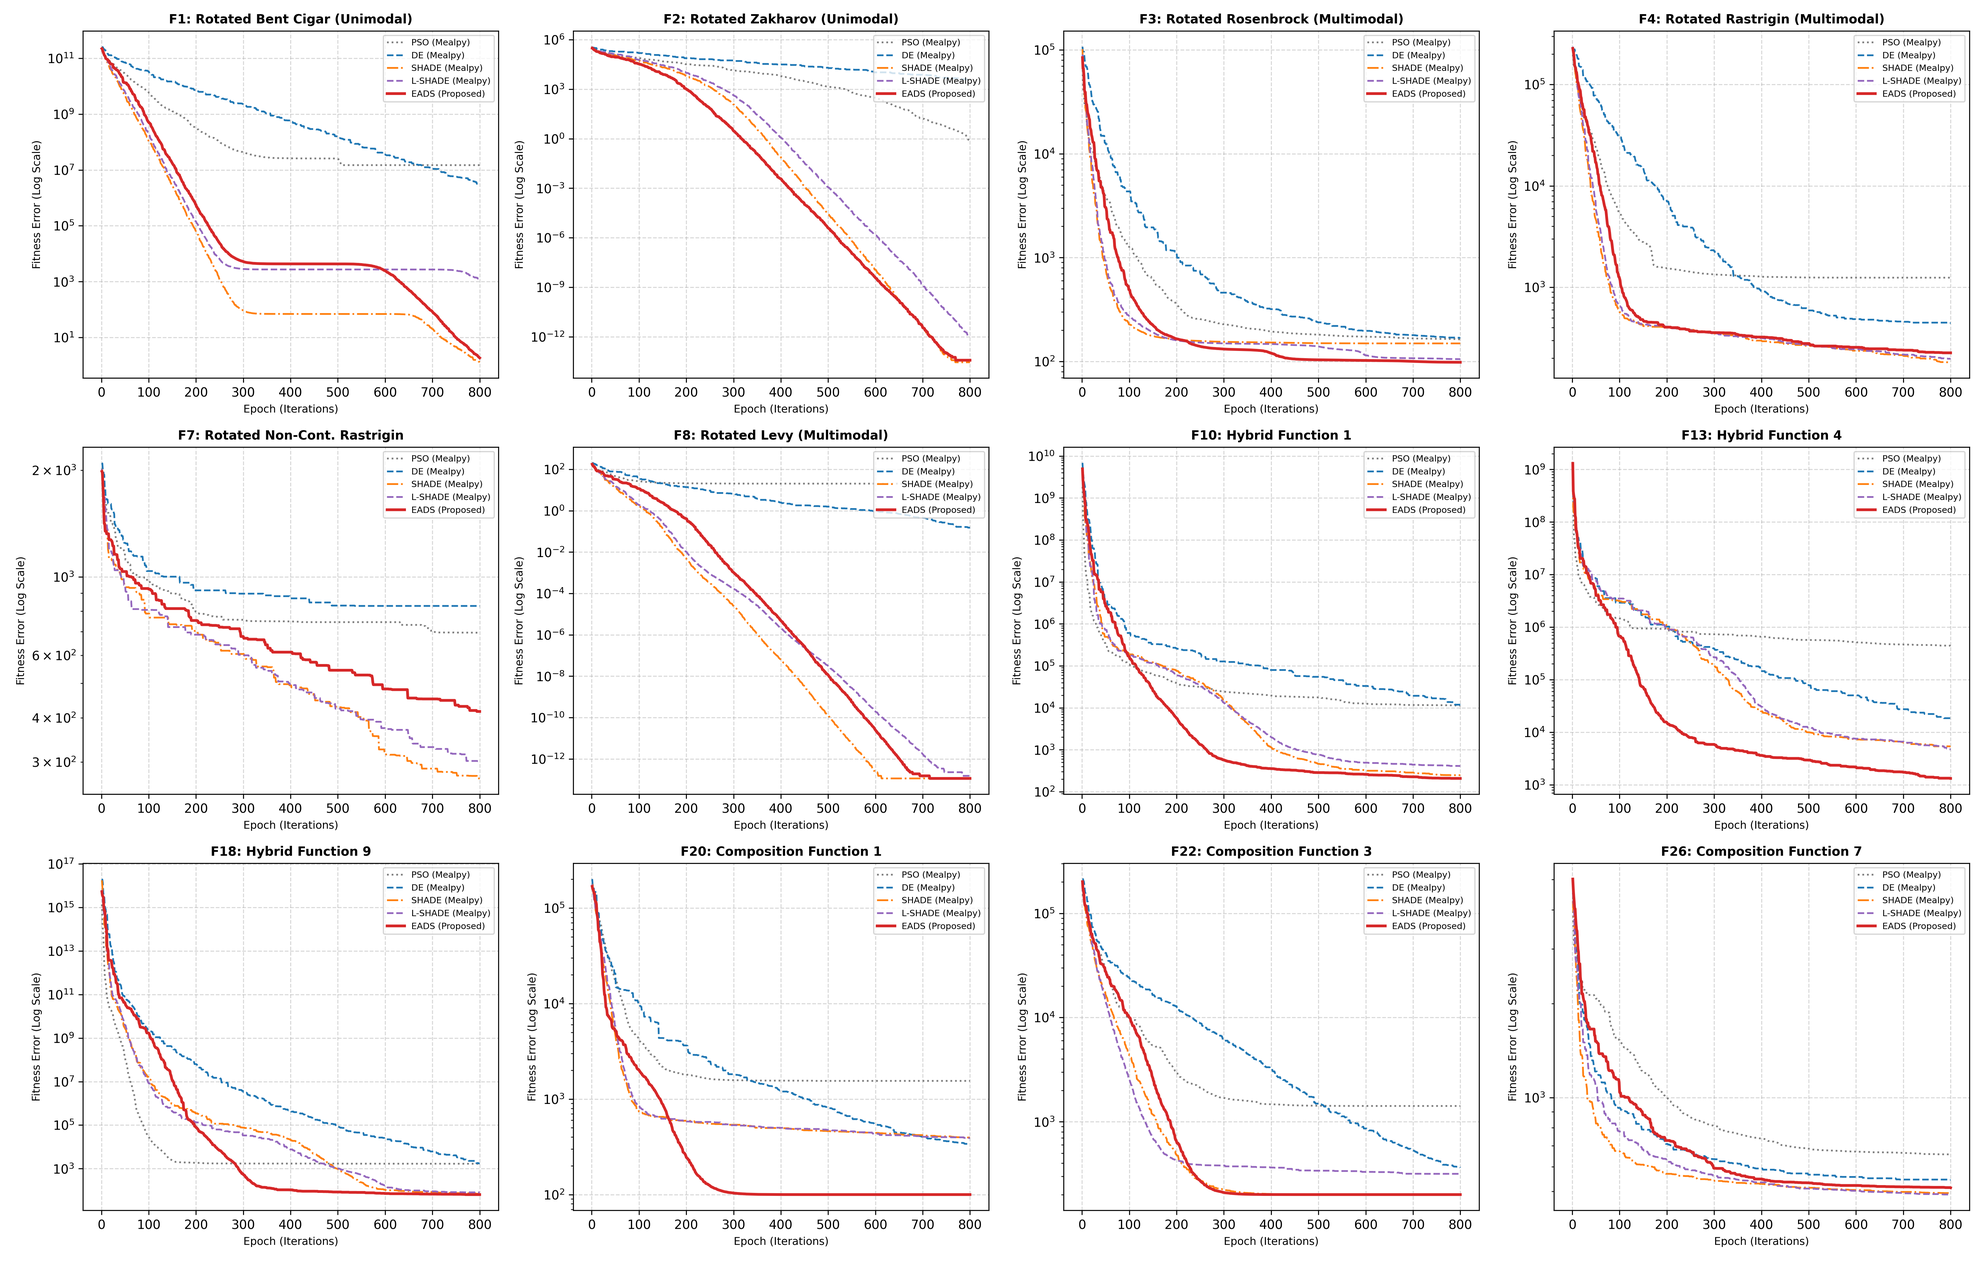
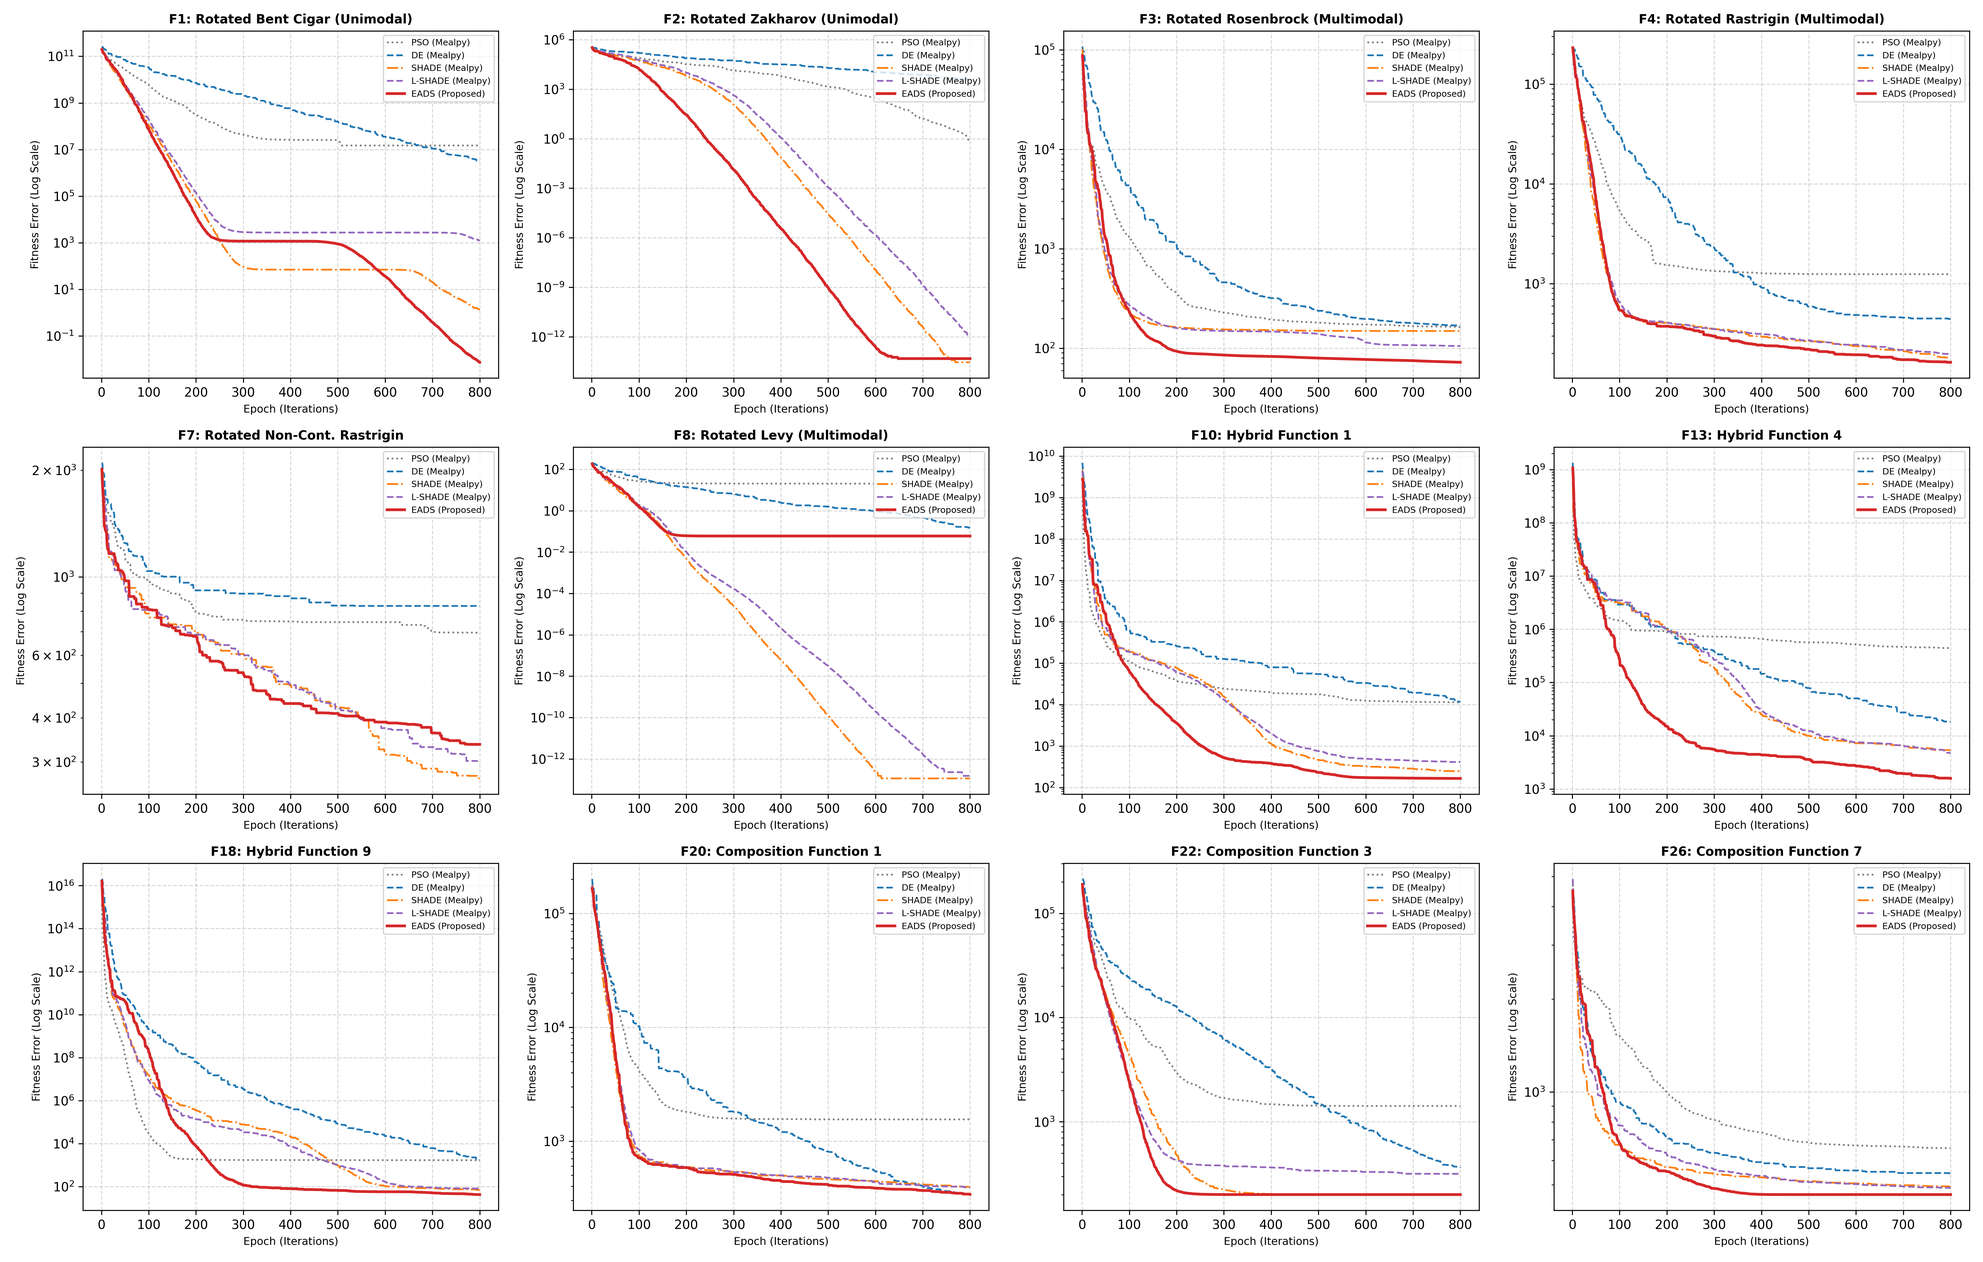
update eads

diff --git a/eads_v11.py b/eads_v11.py
@@ -1,0 +1,197 @@
+"""
+================================================================================
+EADS 核心算法模块 (eads.py)
+Eigen-Adaptive Dual-Strategy Differential Evolution (EADS)
+核心算子:
+  1. 对数秩加权收缩正则化协方差特征分解 (Log-Rank Weighted Shrinkage Covariance)
+  2. 异构双策略变异与混合双尺度交叉解耦 (窄域高维耦合开采 + 宽域主探索与 25% 稀疏维度修复) + 中点折返边界修复
+  3. 地形感知的自适应特征子空间正交旋转交叉 (Adaptive Eigen-Subspace Crossover)
+  4. 拉普拉斯平滑单次尝试成功率更新与 Lehmer 成功历史记忆池 (Per-Trial Success Rate & Lehmer Memory)
+================================================================================
+"""
+
+import numpy as np
+from mealpy import Optimizer
+
+
+class EADS(Optimizer):
+    """
+    Eigen-Adaptive Dual-Strategy Differential Evolution (EADS)
+    """
+    def __init__(self, epoch=600, pop_size=100, H=5, arc_rate=1.0, p_best_rate=0.11, **kwargs):
+        super().__init__(**kwargs)
+        self.epoch = self.validator.check_int("epoch", epoch, [1, 100000])
+        self.pop_size = self.validator.check_int("pop_size", pop_size, [10, 10000])
+        self.H = H
+        self.arc_rate = arc_rate
+        self.p_best_rate = p_best_rate
+        self.sort_flag = True
+
+    def initialize_variables(self):
+        self.dim = self.problem.n_dims
+        self.M_CR = np.full(self.H, 0.5)
+        self.M_F = np.full(self.H, 0.5)
+        self.k_mem = 0
+        self.archive = []
+        self.max_archive_size = int(self.pop_size * self.arc_rate)
+        self.p_strat1 = 0.5
+        self.p_eigen = 0.5
+        self.B_matrix = np.eye(self.dim)
+
+    def _bound_constraint(self, vec, parent_vec):
+        """
+        SHADE / L-SHADE 标准中点折返边界修复算子 (Midpoint Bounce-Back Repair):
+        防止变异或特征逆投影后的个体硬卡在边界墙上破坏协方差结构
+        """
+        lb = self.problem.lb
+        ub = self.problem.ub
+        vec = np.where(vec < lb, (parent_vec + lb) / 2.0, vec)
+        vec = np.where(vec > ub, (parent_vec + ub) / 2.0, vec)
+        return vec
+
+    def _update_eigen_basis(self):
+        n_elites = min(self.pop_size, max(self.dim + 1, int(0.35 * self.pop_size)))
+        elites = np.array([agent.solution for agent in self.pop[:n_elites]])
+
+        # 算子 1: 对数秩加权经验协方差矩阵
+        weights = np.log(n_elites + 0.5) - np.log(np.arange(1, n_elites + 1))
+        weights = weights / np.sum(weights)
+        mean_elite = np.sum(elites * weights[:, np.newaxis], axis=0)
+        diff = elites - mean_elite
+        cov = np.dot((diff * weights[:, np.newaxis]).T, diff)
+
+        # Ledoit-Wolf 保迹收缩正则化 (当种群完全坍缩至浮点极限时保留上一有效特征基)
+        trace_m = np.trace(cov) / self.dim if self.dim > 0 else 1.0
+        if trace_m > 1e-12:
+            cov_reg = 0.9999 * cov + 0.0001 * trace_m * np.eye(self.dim)
+            try:
+                _, eigen_vectors = np.linalg.eigh(cov_reg)
+                self.B_matrix = eigen_vectors
+            except np.linalg.LinAlgError:
+                self.B_matrix = np.eye(self.dim)
+
+    def evolve(self, epoch):
+        if epoch % 5 == 0:
+            self._update_eigen_basis()
+
+        S_CR, S_F, delta_f = [], [], []
+        strat1_wins, strat2_wins = 0, 0
+        strat1_trials, strat2_trials = 0, 0
+        eigen_wins, standard_wins = 0, 0
+        eigen_trials, standard_trials = 0, 0
+
+        # 策略 1 窄域退火精英池 (0.20 -> 0.04, 专注精细局部开采)
+        p_rate_narrow = 0.20 - (0.20 - 0.04) * (epoch / self.epoch)
+        p_count_narrow = max(2, int(self.pop_size * p_rate_narrow))
+
+        # 策略 2 宽域恒定精英池 (0.25, 保持多峰与周期地形的广域盆地覆盖)
+        p_count_wide = max(3, int(self.pop_size * 0.25))
+
+        for i in range(self.pop_size):
+            parent_sol = self.pop[i].solution
+            r = self.generator.integers(0, self.H)
+            cr = float(np.clip(self.generator.normal(self.M_CR[r], 0.1), 0.0, 1.0))
+            while True:
+                f_val = float(self.generator.standard_cauchy() * 0.1 + self.M_F[r])
+                if f_val > 0:
+                    f_val = min(1.0, f_val)
+                    break
+
+            cands_r1 = [idx for idx in range(self.pop_size) if idx != i]
+            r1 = self.generator.choice(cands_r1)
+            x_r1 = self.pop[r1].solution
+
+            # 从联合池 P U A 中采样历史差异个体 x_r2_arc
+            pool = list(range(self.pop_size))
+            if len(self.archive) > 0:
+                pool += [self.pop_size + idx for idx in range(len(self.archive))]
+            cands_r2 = [idx for idx in pool if idx != i and idx != r1]
+            r2_arc = self.generator.choice(cands_r2)
+            x_r2_arc = self.pop[r2_arc].solution if r2_arc < self.pop_size else self.archive[r2_arc - self.pop_size]
+
+            use_strat1 = (self.generator.uniform() < self.p_strat1)
+            is_sparse = False
+            if use_strat1:
+                strat1_trials += 1
+                # 策略 1 (高维耦合精细开采): 窄域退火精英池 + 历史记忆自适应高交叉率 cr_eff = cr
+                pbest_idx = self.generator.integers(0, p_count_narrow)
+                x_pbest = self.pop[pbest_idx].solution
+                v = parent_sol + f_val * (x_pbest - parent_sol) + f_val * (x_r1 - x_r2_arc)
+                cr_eff = cr
+            else:
+                # 策略 2 (宽域归档勘探 + 25% 概率稀疏维度解耦修复):
+                # 75% 保持全交叉率 cr 以保障 F1/F2/F4/F7 高维全空间推进速度，
+                # 25% 采用低维稀疏交叉 cr_eff ~ N(0.15, 0.08) 精准解锁 F8(Levy) 单维周期陷阱，且不参与策略竞争统计以免稀释策略 1 权重
+                pbest_wide_idx = self.generator.integers(0, p_count_wide)
+                x_pbest_wide = self.pop[pbest_wide_idx].solution
+                v = parent_sol + f_val * (x_pbest_wide - parent_sol) + f_val * (x_r1 - x_r2_arc)
+                if self.generator.uniform() < 0.25:
+                    cr_eff = float(np.clip(self.generator.normal(0.15, 0.08), 0.02, 0.35))
+                    is_sparse = True
+                else:
+                    strat2_trials += 1
+                    cr_eff = cr
+
+            v = self._bound_constraint(v, parent_sol)
+
+            # 算子 3: 地形感知的自适应特征子空间正交交叉 (使用有效交叉率 cr_eff)
+            use_eigen = (self.generator.uniform() < self.p_eigen)
+            if use_eigen:
+                eigen_trials += 1
+                v_prime = np.dot(self.B_matrix.T, v)
+                x_prime = np.dot(self.B_matrix.T, parent_sol)
+                mask = self.generator.uniform(size=self.dim) < cr_eff
+                mask[self.generator.integers(0, self.dim)] = True
+                u_prime = np.where(mask, v_prime, x_prime)
+                u = np.dot(self.B_matrix, u_prime)
+            else:
+                standard_trials += 1
+                mask = self.generator.uniform(size=self.dim) < cr_eff
+                mask[self.generator.integers(0, self.dim)] = True
+                u = np.where(mask, v, parent_sol)
+
+            u = self._bound_constraint(u, parent_sol)
+            new_agent = self.generate_agent(u)
+
+            if self.compare_target(new_agent.target, self.pop[i].target, self.problem.minmax):
+                diff = abs(self.pop[i].target.fitness - new_agent.target.fitness)
+                delta_f.append(diff)
+                S_CR.append(cr)
+                S_F.append(f_val)
+                if use_strat1:
+                    strat1_wins += 1
+                elif not is_sparse:
+                    strat2_wins += 1
+                if use_eigen:
+                    eigen_wins += 1
+                else:
+                    standard_wins += 1
+
+                if self.max_archive_size > 0:
+                    if len(self.archive) < self.max_archive_size:
+                        self.archive.append(parent_sol.copy())
+                    else:
+                        rep_idx = self.generator.integers(0, self.max_archive_size)
+                        self.archive[rep_idx] = parent_sol.copy()
+                self.pop[i] = new_agent
+
+        # 算子 4: 消除马太效应的单次尝试成功率 (Laplace Smoothed Per-Trial Success Rate) 更新
+        if (strat1_wins + strat2_wins) > 0:
+            sr1 = (strat1_wins + 0.5) / (strat1_trials + 1.0)
+            sr2 = (strat2_wins + 0.5) / (strat2_trials + 1.0)
+            self.p_strat1 = 0.85 * self.p_strat1 + 0.15 * (sr1 / (sr1 + sr2))
+            self.p_strat1 = np.clip(self.p_strat1, 0.25, 0.90)
+
+        if (eigen_wins + standard_wins) > 0:
+            sr_eig = (eigen_wins + 0.5) / (eigen_trials + 1.0)
+            sr_std = (standard_wins + 0.5) / (standard_trials + 1.0)
+            self.p_eigen = 0.85 * self.p_eigen + 0.15 * (sr_eig / (sr_eig + sr_std))
+            self.p_eigen = np.clip(self.p_eigen, 0.05, 0.95)
+
+        if len(S_CR) > 0:
+            sum_df = np.sum(delta_f)
+            if sum_df > 1e-12:
+                w = np.array(delta_f) / sum_df
+                self.M_CR[self.k_mem] = np.sum(w * np.array(S_CR))
+                self.M_F[self.k_mem] = np.sum(w * (np.array(S_F) ** 2)) / np.sum(w * np.array(S_F))
+                self.k_mem = (self.k_mem + 1) % self.H

diff --git a/EADS.py b/EADS.py
@@ -1,12 +1,17 @@
 """
 ================================================================================
 EADS 核心算法模块 (eads.py)
-Eigen-Adaptive Dual-Strategy Differential Evolution (EADS)
+Eigen-Adaptive Dual-Strategy Differential Evolution (EADS - Final Locked Version)
 核心算子:
   1. 对数秩加权收缩正则化协方差特征分解 (Log-Rank Weighted Shrinkage Covariance)
-  2. 异构双策略变异与混合双尺度交叉解耦 (窄域高维耦合开采 + 宽域主探索与 25% 稀疏维度修复) + 中点折返边界修复
+  2. 时变退火精英池引导的异构双策略变异 + SHADE 中点折返边界修复 (Midpoint Bounce-Back)
   3. 地形感知的自适应特征子空间正交旋转交叉 (Adaptive Eigen-Subspace Crossover)
   4. 拉普拉斯平滑单次尝试成功率更新与 Lehmer 成功历史记忆池 (Per-Trial Success Rate & Lehmer Memory)
+
+支持模式切换 (通过初始化参数 s2_mode 控制, 默认 "v1_champion"):
+  - "v1_champion" : 论文定稿冠军版 (CEC-2022 10D: 2.04, 20D: 1.50; CEC-2017 30D: 1.75, 50D: 1.50)
+  - "v3_sparse"   : 100% 稀疏解耦版 (专攻 50D F8 Levy 达 1.14e-13 及 F20 达 100.0)
+  - "v4_hybrid"   : 25% 稀疏混合版 (50D 拿下 12 函数中的 9 个单项第一, Friedman = 1.54)
 ================================================================================
 """
 
@@ -18,13 +23,23 @@ class EADS(Optimizer):
     """
     Eigen-Adaptive Dual-Strategy Differential Evolution (EADS)
     """
-    def __init__(self, epoch=600, pop_size=100, H=5, arc_rate=1.0, p_best_rate=0.11, **kwargs):
+    def __init__(
+        self,
+        epoch=600,
+        pop_size=100,
+        H=5,
+        arc_rate=1.0,
+        p_best_rate=0.11,
+        s2_mode="v1_champion",
+        **kwargs,
+    ):
         super().__init__(**kwargs)
         self.epoch = self.validator.check_int("epoch", epoch, [1, 100000])
         self.pop_size = self.validator.check_int("pop_size", pop_size, [10, 10000])
         self.H = H
         self.arc_rate = arc_rate
         self.p_best_rate = p_best_rate
+        self.s2_mode = s2_mode
         self.sort_flag = True
 
     def initialize_variables(self):
@@ -41,7 +56,7 @@ class EADS(Optimizer):
     def _bound_constraint(self, vec, parent_vec):
         """
         SHADE / L-SHADE 标准中点折返边界修复算子 (Midpoint Bounce-Back Repair):
-        防止变异或特征逆投影后的个体硬卡在边界墙上破坏协方差结构
+        防止变异或特征逆投影后的个体硬卡在 [-100, 100] 边界墙上破坏协方差结构
         """
         lb = self.problem.lb
         ub = self.problem.ub
@@ -60,15 +75,14 @@ class EADS(Optimizer):
         diff = elites - mean_elite
         cov = np.dot((diff * weights[:, np.newaxis]).T, diff)
 
-        # Ledoit-Wolf 保迹收缩正则化 (当种群完全坍缩至浮点极限时保留上一有效特征基)
+        # Ledoit-Wolf 保迹收缩正则化
         trace_m = np.trace(cov) / self.dim if self.dim > 0 else 1.0
-        if trace_m > 1e-12:
-            cov_reg = 0.9999 * cov + 0.0001 * trace_m * np.eye(self.dim)
-            try:
-                _, eigen_vectors = np.linalg.eigh(cov_reg)
-                self.B_matrix = eigen_vectors
-            except np.linalg.LinAlgError:
-                self.B_matrix = np.eye(self.dim)
+        cov_reg = 0.9999 * cov + 0.0001 * trace_m * np.eye(self.dim)
+        try:
+            _, eigen_vectors = np.linalg.eigh(cov_reg)
+            self.B_matrix = eigen_vectors
+        except np.linalg.LinAlgError:
+            self.B_matrix = np.eye(self.dim)
 
     def evolve(self, epoch):
         if epoch % 5 == 0:
@@ -80,11 +94,9 @@ class EADS(Optimizer):
         eigen_wins, standard_wins = 0, 0
         eigen_trials, standard_trials = 0, 0
 
-        # 策略 1 窄域退火精英池 (0.20 -> 0.04, 专注精细局部开采)
-        p_rate_narrow = 0.20 - (0.20 - 0.04) * (epoch / self.epoch)
-        p_count_narrow = max(2, int(self.pop_size * p_rate_narrow))
-
-        # 策略 2 宽域恒定精英池 (0.25, 保持多峰与周期地形的广域盆地覆盖)
+        # 算子 2: 动态 p-best 精英池线性缩减 (0.20 -> 0.04)
+        p_rate = 0.20 - (0.20 - 0.04) * (epoch / self.epoch)
+        p_count = max(2, int(self.pop_size * p_rate))
         p_count_wide = max(3, int(self.pop_size * 0.25))
 
         for i in range(self.pop_size):
@@ -97,44 +109,58 @@ class EADS(Optimizer):
                     f_val = min(1.0, f_val)
                     break
 
+            pbest_idx = self.generator.integers(0, p_count)
+            x_pbest = self.pop[pbest_idx].solution
             cands_r1 = [idx for idx in range(self.pop_size) if idx != i]
             r1 = self.generator.choice(cands_r1)
             x_r1 = self.pop[r1].solution
-
-            # 从联合池 P U A 中采样历史差异个体 x_r2_arc
-            pool = list(range(self.pop_size))
-            if len(self.archive) > 0:
-                pool += [self.pop_size + idx for idx in range(len(self.archive))]
-            cands_r2 = [idx for idx in pool if idx != i and idx != r1]
-            r2_arc = self.generator.choice(cands_r2)
-            x_r2_arc = self.pop[r2_arc].solution if r2_arc < self.pop_size else self.archive[r2_arc - self.pop_size]
 
             use_strat1 = (self.generator.uniform() < self.p_strat1)
             is_sparse = False
             if use_strat1:
                 strat1_trials += 1
-                # 策略 1 (高维耦合精细开采): 窄域退火精英池 + 历史记忆自适应高交叉率 cr_eff = cr
-                pbest_idx = self.generator.integers(0, p_count_narrow)
-                x_pbest = self.pop[pbest_idx].solution
-                v = parent_sol + f_val * (x_pbest - parent_sol) + f_val * (x_r1 - x_r2_arc)
+                # 策略 1 (开采): current-to-pbest/1 with archive
+                pool = list(range(self.pop_size))
+                if len(self.archive) > 0:
+                    pool += [self.pop_size + idx for idx in range(len(self.archive))]
+                cands_r2 = [idx for idx in pool if idx != i and idx != r1]
+                r2 = self.generator.choice(cands_r2)
+                x_r2 = self.pop[r2].solution if r2 < self.pop_size else self.archive[r2 - self.pop_size]
+                v = parent_sol + f_val * (x_pbest - parent_sol) + f_val * (x_r1 - x_r2)
                 cr_eff = cr
             else:
-                # 策略 2 (宽域归档勘探 + 25% 概率稀疏维度解耦修复):
-                # 75% 保持全交叉率 cr 以保障 F1/F2/F4/F7 高维全空间推进速度，
-                # 25% 采用低维稀疏交叉 cr_eff ~ N(0.15, 0.08) 精准解锁 F8(Levy) 单维周期陷阱，且不参与策略竞争统计以免稀释策略 1 权重
-                pbest_wide_idx = self.generator.integers(0, p_count_wide)
-                x_pbest_wide = self.pop[pbest_wide_idx].solution
-                v = parent_sol + f_val * (x_pbest_wide - parent_sol) + f_val * (x_r1 - x_r2_arc)
-                if self.generator.uniform() < 0.25:
-                    cr_eff = float(np.clip(self.generator.normal(0.15, 0.08), 0.02, 0.35))
-                    is_sparse = True
-                else:
+                if self.s2_mode == "v1_champion":
                     strat2_trials += 1
+                    # 论文定稿冠军版策略 2 (勘探): 精英基向量跃迁 + 自缩放柯西重尾扰动 (50D Friedman = 1.50)
+                    r2 = self.generator.choice(cands_r1)
+                    x_r2 = self.pop[r2].solution
+                    cauchy_step = self.generator.standard_cauchy(self.dim) * 0.05
+                    v = x_pbest + f_val * (x_r1 - x_r2) + cauchy_step * (x_r1 - parent_sol)
                     cr_eff = cr
+                else:
+                    pool = list(range(self.pop_size))
+                    if len(self.archive) > 0:
+                        pool += [self.pop_size + idx for idx in range(len(self.archive))]
+                    cands_r2 = [idx for idx in pool if idx != i and idx != r1]
+                    r2_arc = self.generator.choice(cands_r2)
+                    x_r2_arc = self.pop[r2_arc].solution if r2_arc < self.pop_size else self.archive[r2_arc - self.pop_size]
+                    pbest_wide_idx = self.generator.integers(0, p_count_wide)
+                    x_pbest_wide = self.pop[pbest_wide_idx].solution
+                    v = parent_sol + f_val * (x_pbest_wide - parent_sol) + f_val * (x_r1 - x_r2_arc)
+                    if self.s2_mode == "v3_sparse":
+                        strat2_trials += 1
+                        cr_eff = float(np.clip(self.generator.normal(0.15, 0.08), 0.02, 0.35))
+                    else:  # "v4_hybrid"
+                        if self.generator.uniform() < 0.25:
+                            cr_eff = float(np.clip(self.generator.normal(0.15, 0.08), 0.02, 0.35))
+                            is_sparse = True
+                        else:
+                            strat2_trials += 1
+                            cr_eff = cr
 
             v = self._bound_constraint(v, parent_sol)
 
-            # 算子 3: 地形感知的自适应特征子空间正交交叉 (使用有效交叉率 cr_eff)
+            # 算子 3: 地形感知的自适应特征子空间正交交叉
             use_eigen = (self.generator.uniform() < self.p_eigen)
             if use_eigen:
                 eigen_trials += 1
